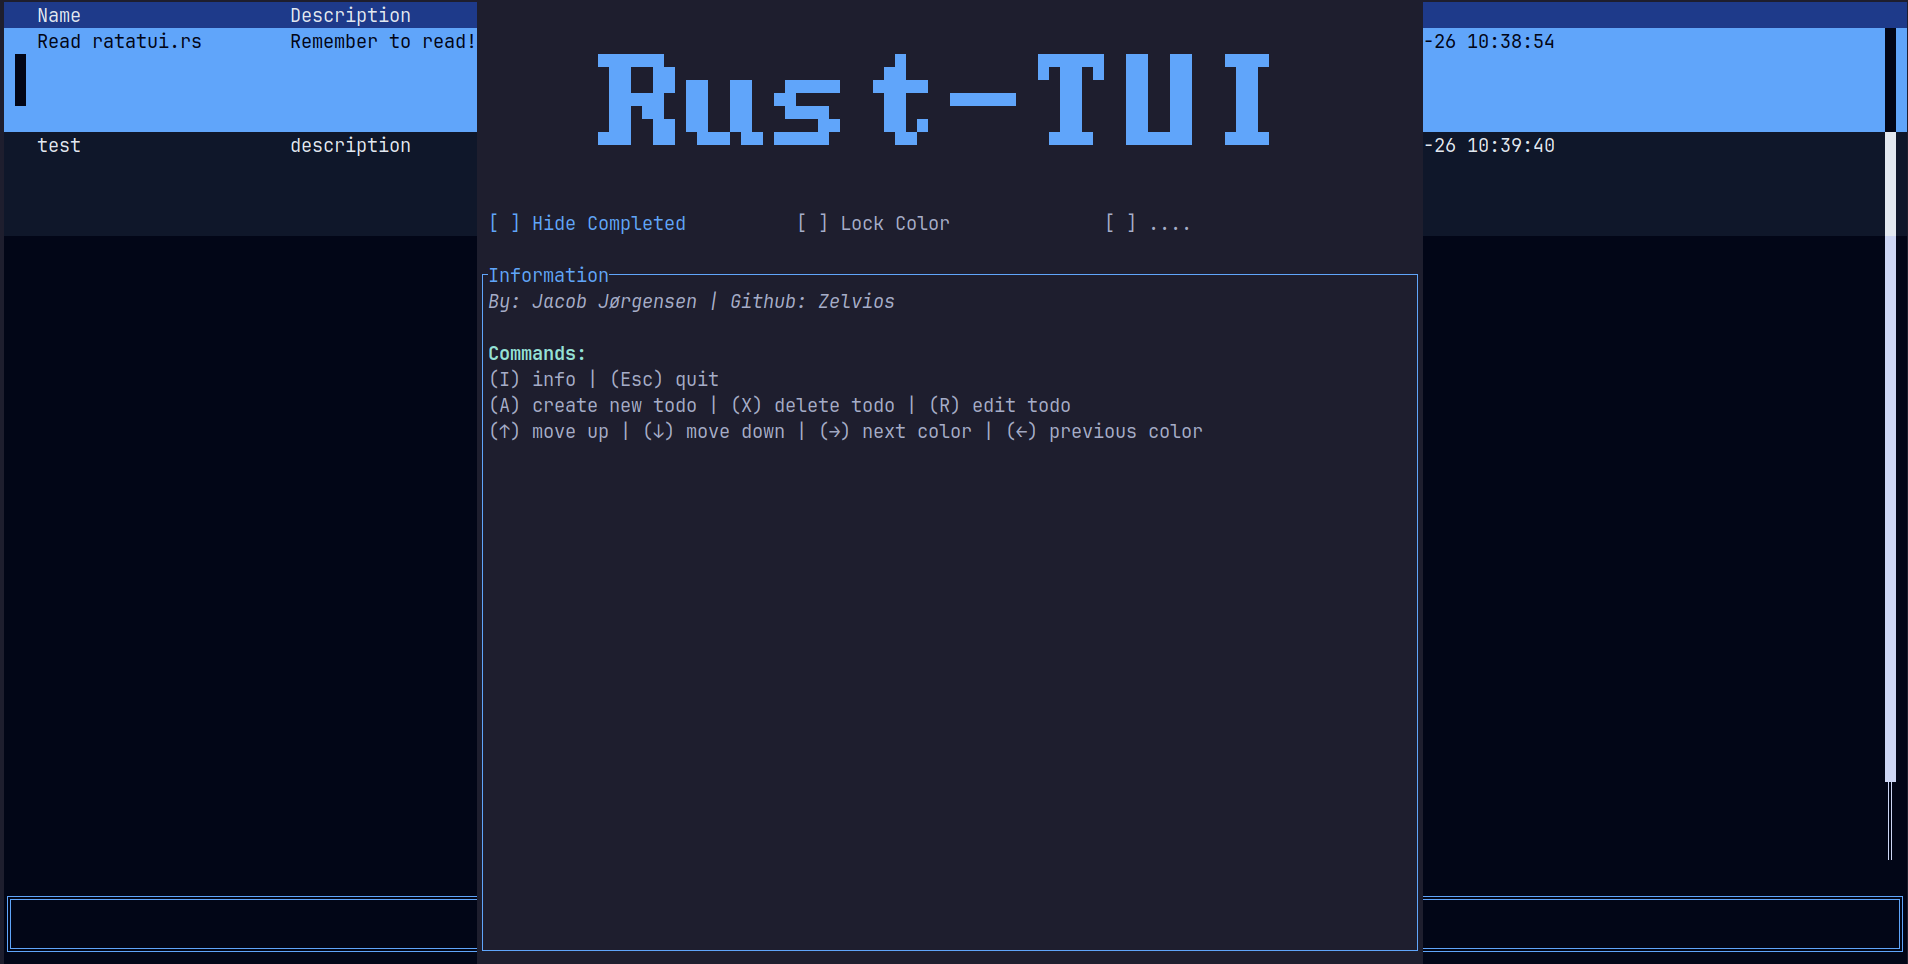
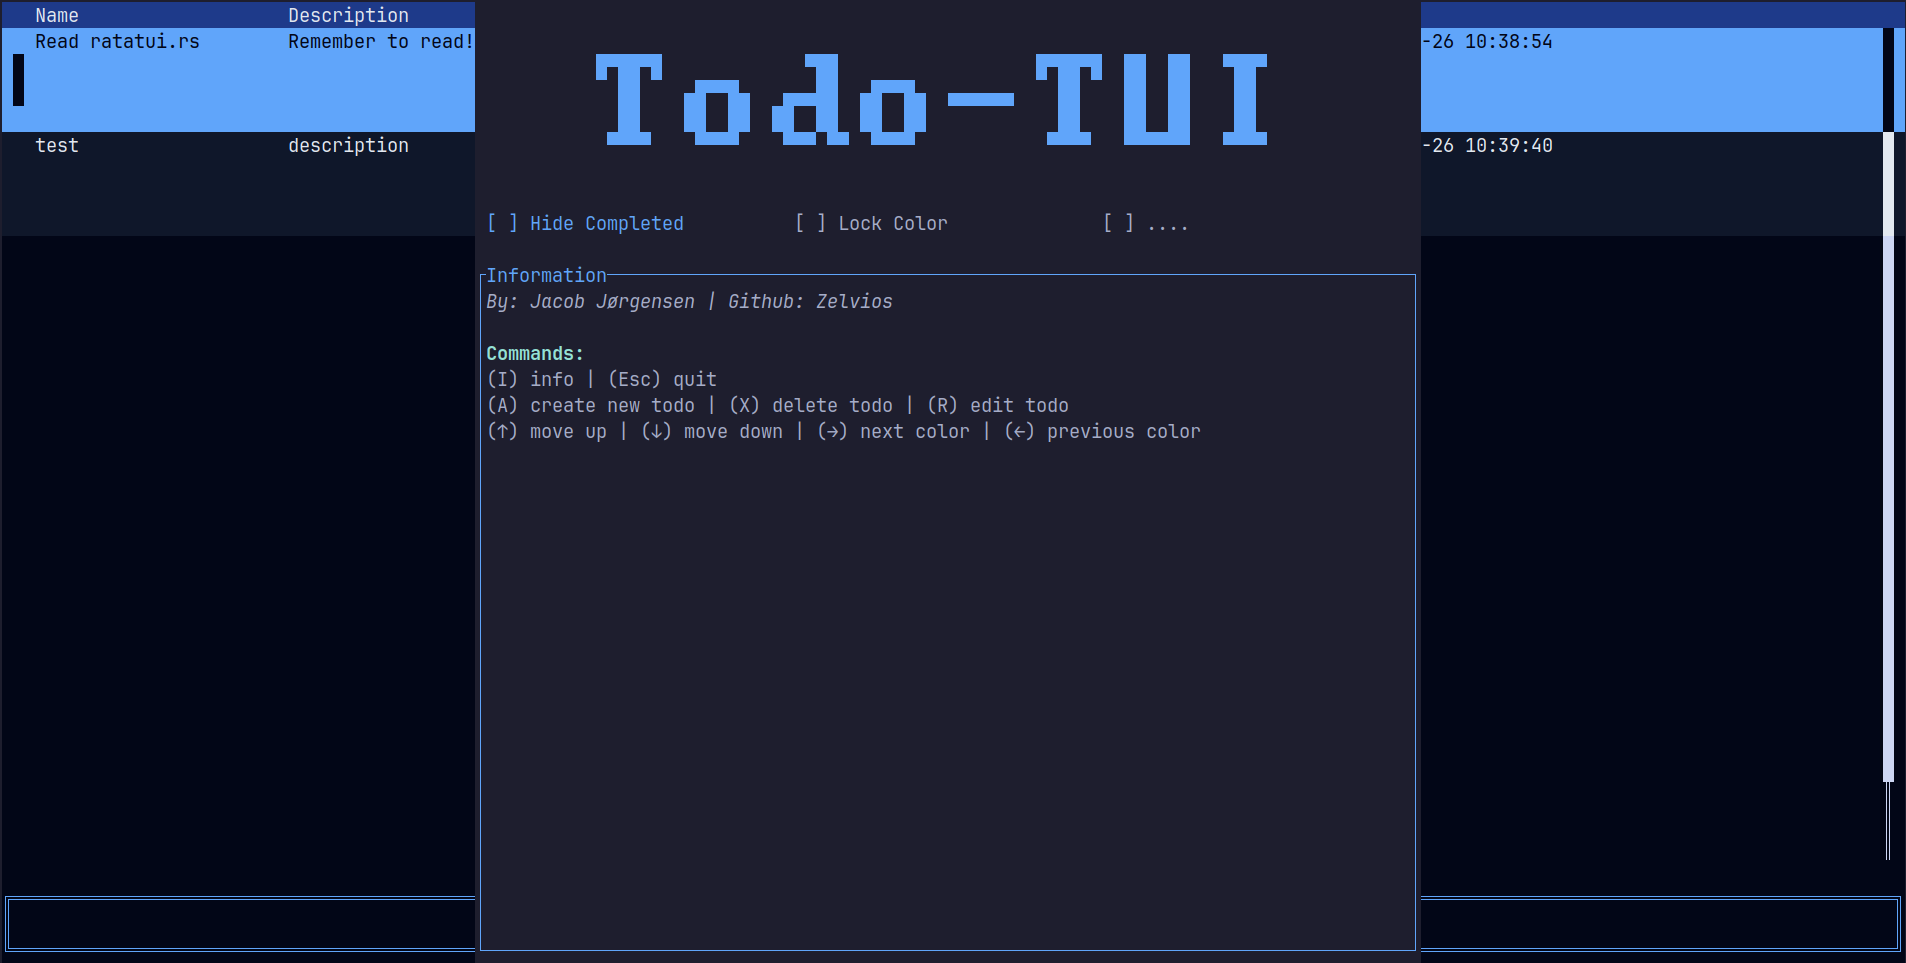
style: change title of info popup.

diff --git a/src/main.rs b/src/main.rs
@@ -155,7 +155,7 @@ impl App<'_> {
             input_focus: InputFocus::Name,
             editing_index: None,
             info_popup: InfoPopup {
-                title: Line::from("Rust-TUI"),
+                title: Line::from("Todo-TUI"),
                 information: Line::from(vec![
                     Span::styled(
                         "By: Jacob Jørgensen | Github: Zelvios",

diff --git a/README.md b/README.md
@@ -4,7 +4,6 @@
 A simple Todo app designed with [ratatui.rs](https://ratatui.rs/)
 
 ![todo-tui](img.png)
-
 ## Development
 
 Clone the Git repository.
